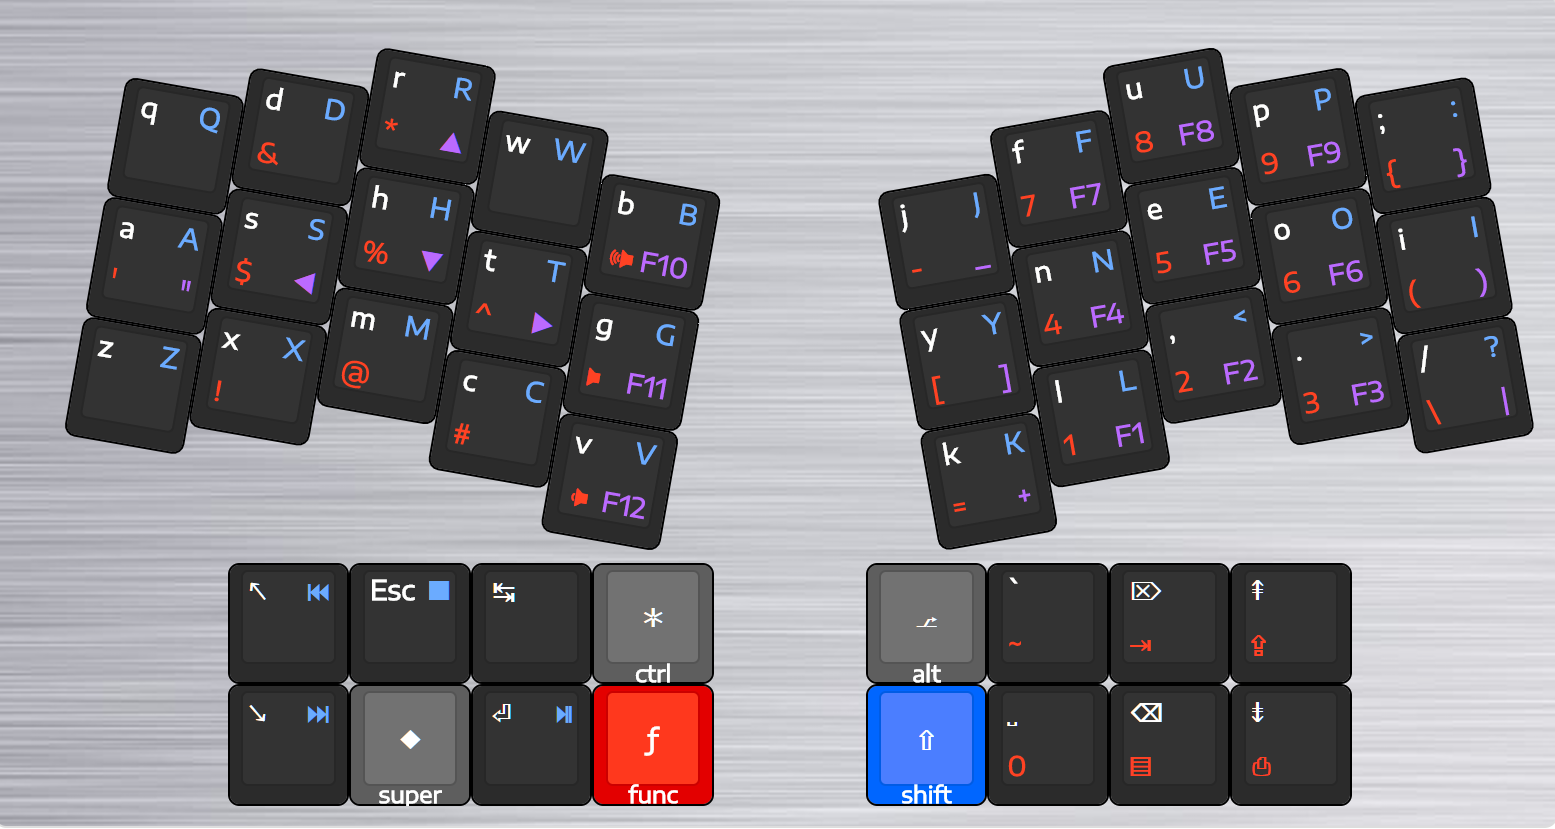
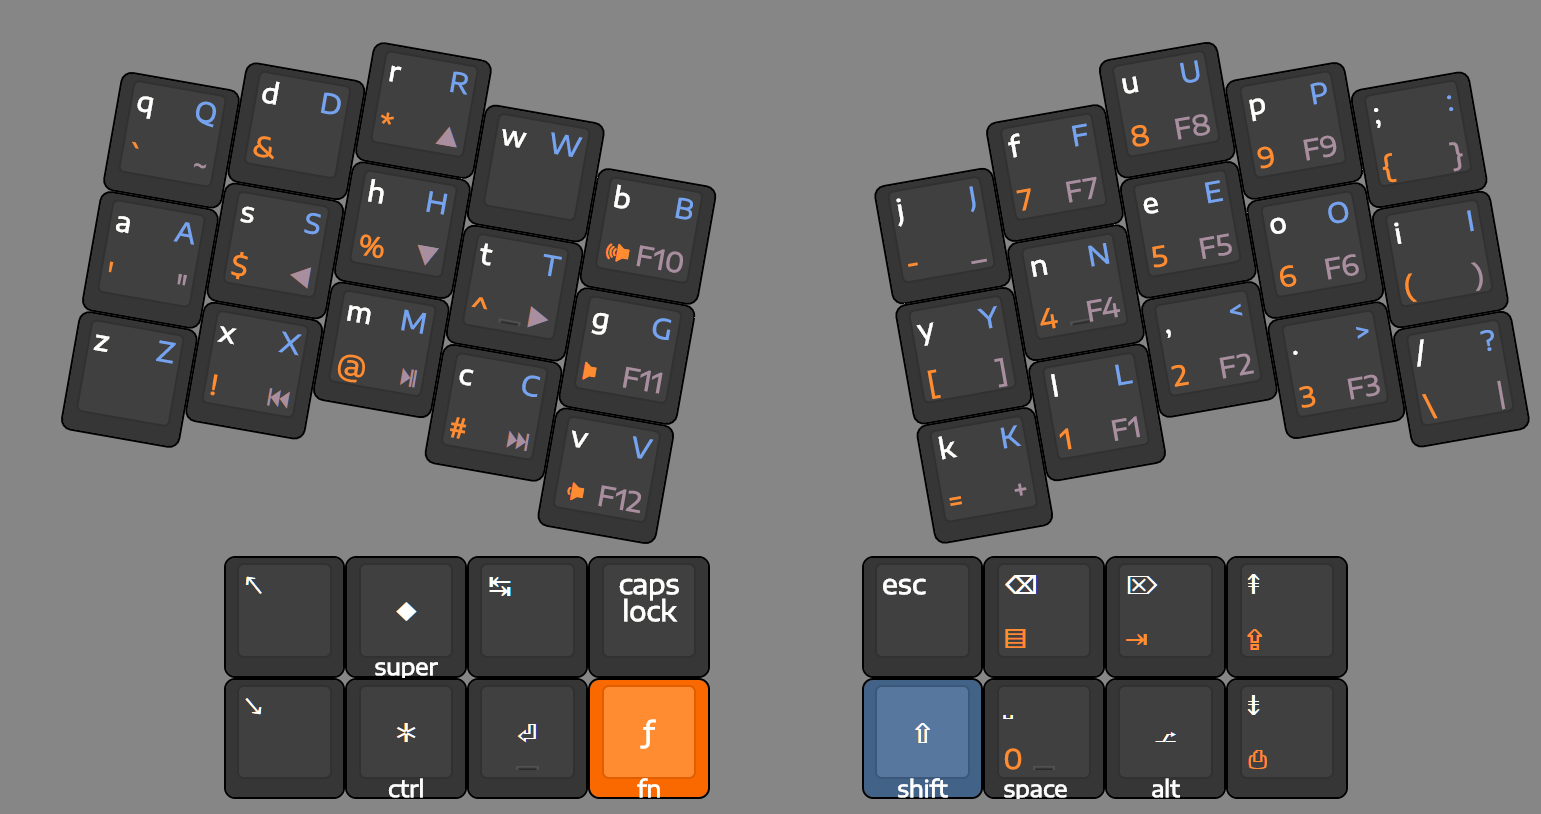
Update layout image and add to readme

diff --git a/README.md b/README.md
@@ -1,3 +1,5 @@
 # mitosis-workman
 
 Workman QMK keymap for the Mitosis keyboard.
+
+![Layout](/mitosis-workman.png?raw=true "Layout")
